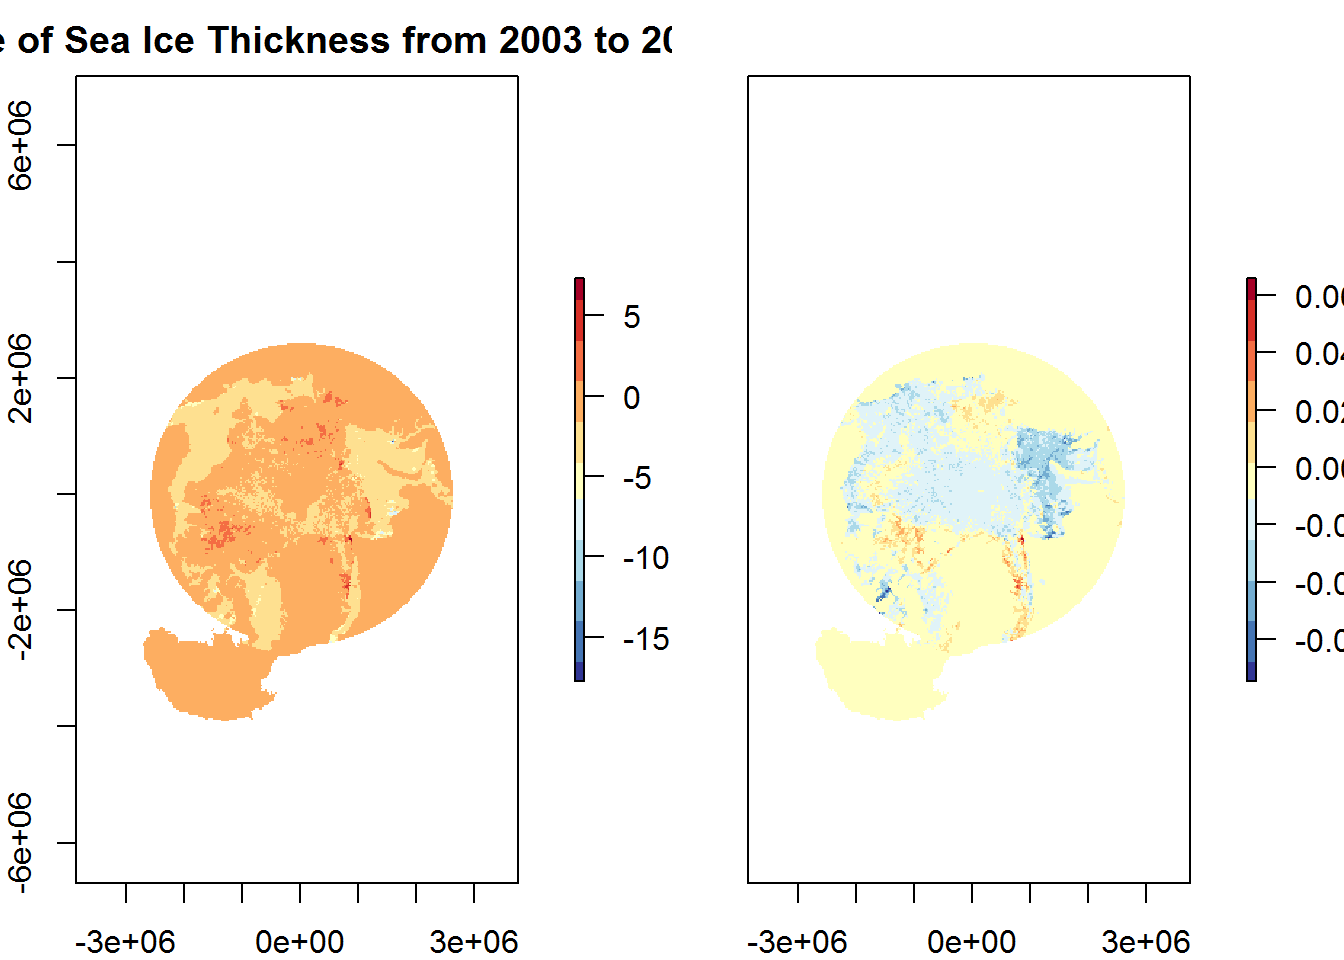
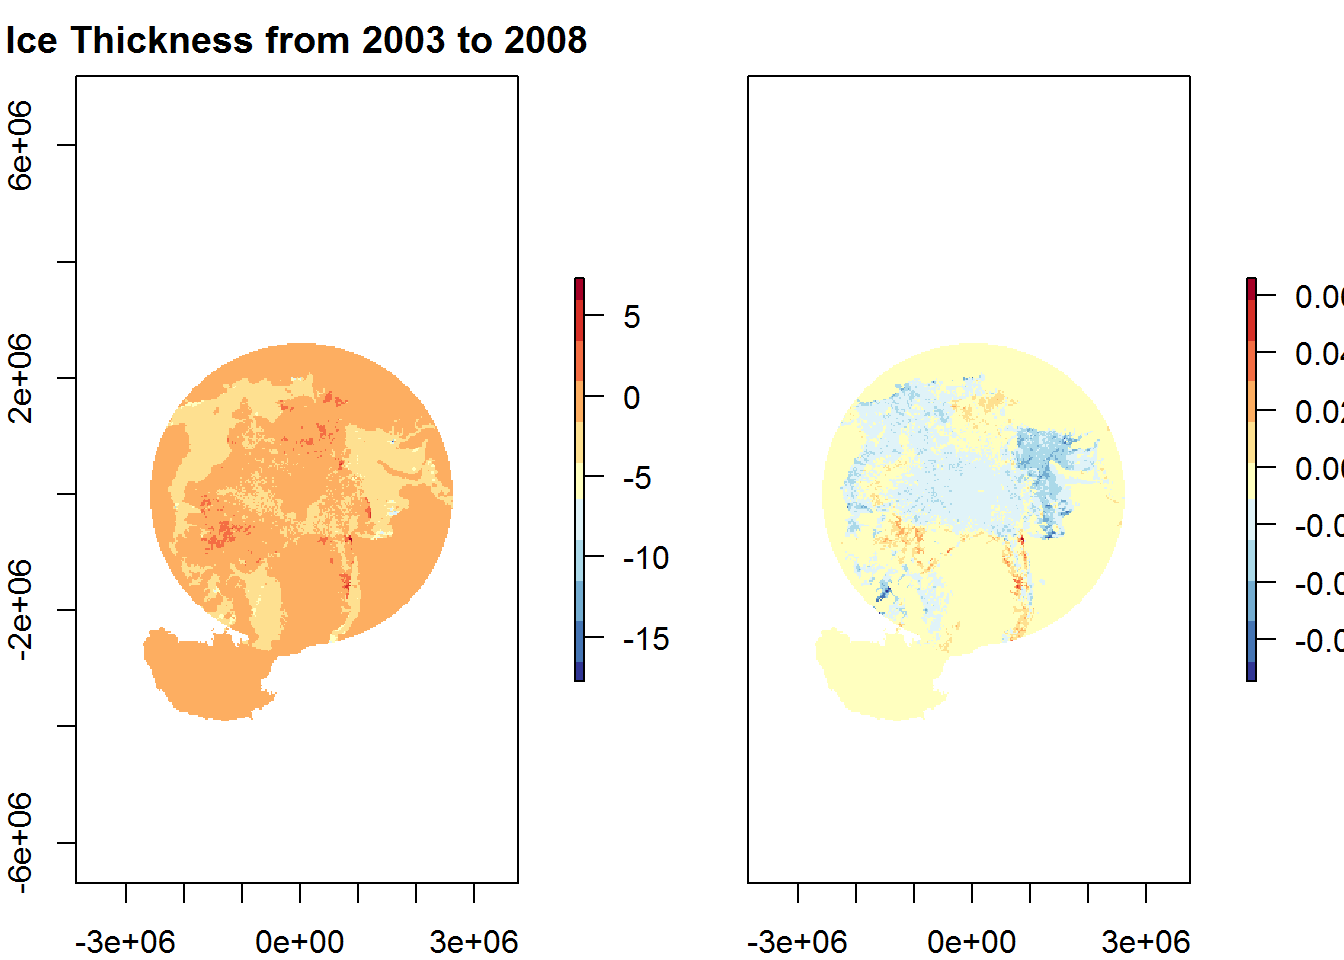
T

Changed region(s): [[0.0, 0.0312, 0.5, 0.0625]]

diff --git a/docs/index.html b/docs/index.html
@@ -308,10 +308,11 @@ div.tocify {
 </div>
 <div id="materials-and-methods" class="section level1">
 <h1>Materials and methods</h1>
-<p>In order to see trends easily in sea ice thickness, you must consider short and long term trends. My steps in accomplishing this are as follows: 1. Acquire and download data from National Snow and Ice Data Center 2. Display the thickness for both 2003 and 2008 via spplot 3. Download the Arctic boundary to isolate the area further 4. Visualize the difference in sea ice thickness 5. Visualize trends across the 69 months via spplot</p>
+<p>In order to see trends easily in sea ice thickness, you must consider short and long term trends. My steps in accomplishing this are as follows: 1. Acquire and download data from National Snow and Ice Data Center 2. Display the thickness for the total 69 months from 2003 to 2008 to see short term trends 3. Display the thickness for the first month of 2003 and the last month of 2008 4. Download the Arctic boundary to further isolate the study area 5. Create a linear regression displaying the month against the average sea ice thickness 6. Visualize the difference via subtracting the 2003 thickness from the 2008 thickness, visualize the slope</p>
 <p>There were a total of 69 months being observed in this dataset represented from 2003 to 208. In order to make the short term data more visually understandable, I chose to start from month 1 and display each month recorded by continuously adding off of the previous months until the final 69th month. I then renamed that specific month and year to the number month it was in the 69 month sequence. For example, February 2004 became titled “13” as this was the 13th month. This makes it simpler for people to see changes short term in terms of a monthly basis.</p>
 <p>Load any required packages in a code chunk (you may need to install some packages):</p>
-<pre class="r"><code>knitr::opts_chunk$set(cache = TRUE, echo = TRUE, warning = FALSE, message = FALSE)  # cache the results for quick compiling
+<pre class="r"><code>knitr::opts_chunk$set(cache = TRUE, echo = TRUE, warning = FALSE, message = FALSE, fig.align = &#39;center&#39;) # cache the results for quick compiling
+
 
 # Loading packages.
 library(raster)
@@ -383,7 +384,7 @@ trend &lt;- trend[complete.cases(trend), ]</code></pre>
 <pre class="r"><code>spplot(st_mask, 
        col.regions = rev(brewer.pal(11, &quot;RdYlBu&quot;)), cuts = 10,
        main = &quot;Sea Ice Thickness from 2003 to 2008&quot;)</code></pre>
-<p><img src="index_files/figure-html/unnamed-chunk-5-1.png" width="672" /></p>
+<p><img src="index_files/figure-html/unnamed-chunk-5-1.png" width="672" style="display: block; margin: auto;" /></p>
 <pre class="r"><code>firstThickness &lt;- st_mask[[1]]
 lastThickness &lt;- st_mask[[15]]
 
@@ -393,7 +394,7 @@ names(lastThickness) &lt;- &quot;Last Month&quot;
 spplot(stack(firstThickness, lastThickness), 
        col.regions = rev(brewer.pal(11, &quot;RdYlBu&quot;)), cuts = 10,
        main = &quot;Sea Ice Thickness in the First Month and Last Month&quot;)</code></pre>
-<p><img src="index_files/figure-html/unnamed-chunk-6-1.png" width="672" /></p>
+<p><img src="index_files/figure-html/unnamed-chunk-6-1.png" width="672" style="display: block; margin: auto;" /></p>
 <pre class="r"><code>diff &lt;- lastThickness - firstThickness
 names(diff) &lt;- &quot;Thick Difference&quot;</code></pre>
 <p>This next visualization is used in order to see trends across 15 of the 69 total months spread out from February 2003 to October 2008. Similarly to my first plot displaying the years 2003 and 2008 side by side, this plot indicates sea ice thickness being greater in dark blue areas and lesser in lighter areas with colors such as pink or yellow.</p>
@@ -410,7 +411,7 @@ ggplot(avgThickness, aes(Month, avgThickness)) +
   labs(x = &quot;Month&quot;, 
        y = &quot;Average Thickness&quot;) +
   ggtitle(&quot;Average Thickness of Arctic Sea Ice from 2003 to 2008&quot;)</code></pre>
-<p><img src="index_files/figure-html/unnamed-chunk-7-1.png" width="672" /></p>
+<p><img src="index_files/figure-html/unnamed-chunk-7-1.png" width="672" style="display: block; margin: auto;" /></p>
 <pre class="r"><code># Create a histogram of the slope/trend.
 # As you can see, most slope/trend values here are negative, which indicates that the thickness of sea ice was decreasing at most raster pixels within our study area from 2003 to 2008.
 hist(trend$Slope, 
@@ -421,7 +422,7 @@ hist(trend$Slope,
      col = &quot;green&quot;,
      xlim = c(-0.04, 0.04),
      ylim = c(0, 3.5e5))</code></pre>
-<p><img src="index_files/figure-html/unnamed-chunk-7-2.png" width="672" /></p>
+<p><img src="index_files/figure-html/unnamed-chunk-7-2.png" width="672" style="display: block; margin: auto;" /></p>
 <pre class="r"><code>## Rasterization
 # Convert the data frame to a spatial one.
 pts &lt;- trend
@@ -438,12 +439,12 @@ names(pValue) &lt;- &quot;p-Value&quot;
 
 # Display the results.
 plot(stack(diff, slope), col = rev(brewer.pal(11, &quot;RdYlBu&quot;)), 
-       main = &quot;Change of Sea Ice Thickness from 2003 to 2008&quot;)</code></pre>
-<p><img src="index_files/figure-html/unnamed-chunk-8-1.png" width="672" /></p>
+       main = &quot;Ice Thickness from 2003 to 2008&quot;)</code></pre>
+<p><img src="index_files/figure-html/unnamed-chunk-8-1.png" width="672" style="display: block; margin: auto;" /></p>
 <pre class="r"><code>spplot(pValue, 
        col.regions = rev(brewer.pal(11, &quot;RdYlBu&quot;)), cuts = 10,
        main = &quot;P-Value of Linear Regression Analysis&quot;)</code></pre>
-<p><img src="index_files/figure-html/unnamed-chunk-8-2.png" width="672" /></p>
+<p><img src="index_files/figure-html/unnamed-chunk-8-2.png" width="672" style="display: block; margin: auto;" /></p>
 </div>
 <div id="conclusions" class="section level1">
 <h1>Conclusions</h1>
